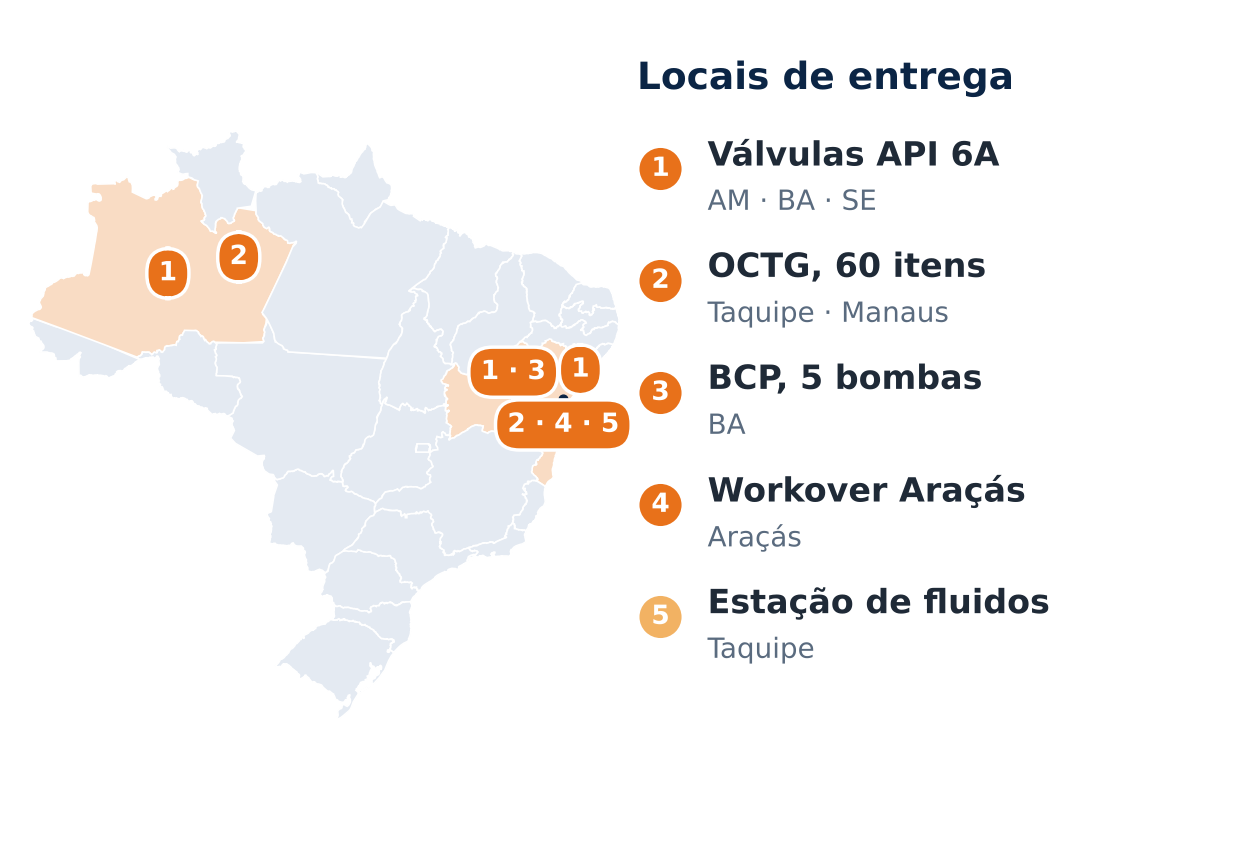
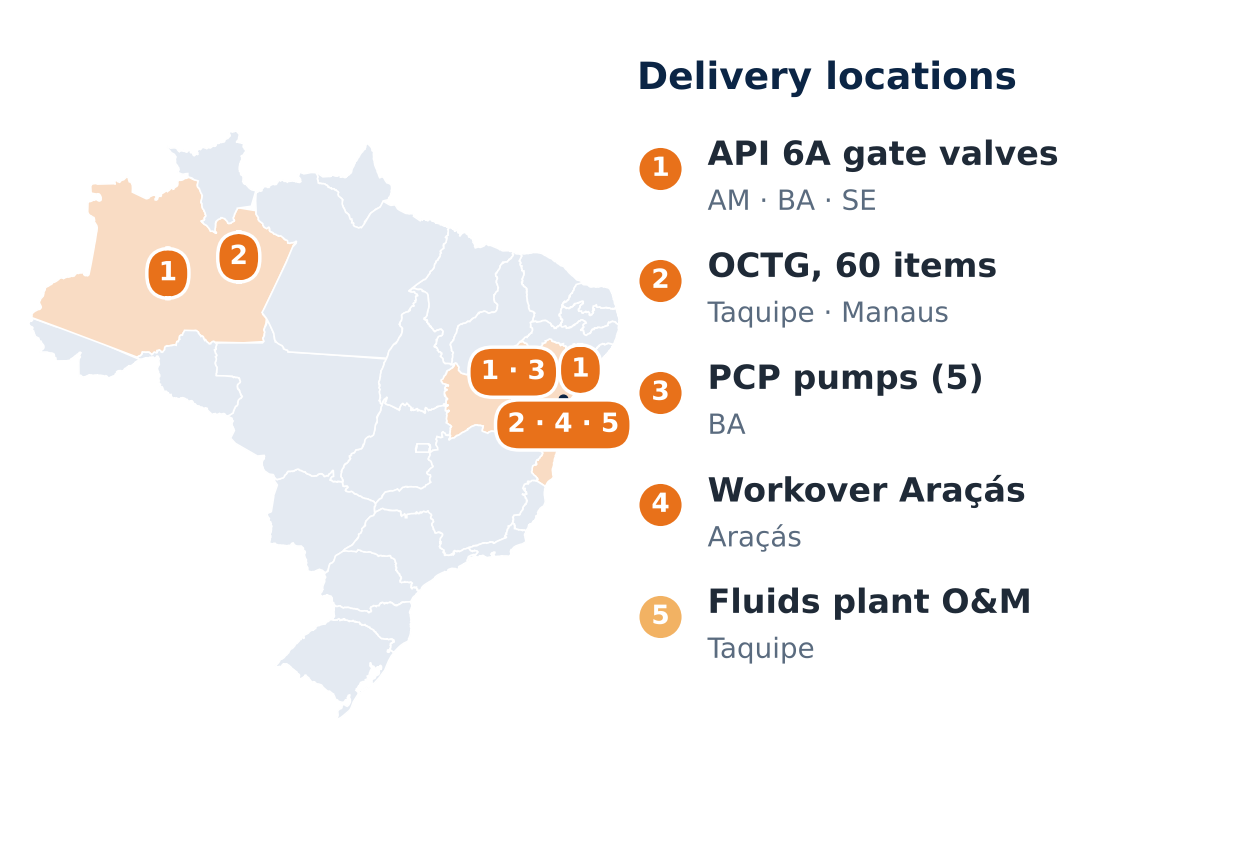
Petronect: mapa em inglês
Claude-Session: https://claude.ai/code/session_01DwFcCsP38r2G4CKmjwVwks

diff --git a/petronect/build_map.py b/petronect/build_map.py
@@ -121,7 +121,7 @@ def main(src, out):
     ax.set_aspect("equal"); ax.axis("off")
 
     lx = fig.add_axes([0.51, 0.0, 0.49, 1.0]); lx.axis("off"); lx.set_xlim(0, 1); lx.set_ylim(0, 1)
-    lx.text(0.0, 0.92, d.get("title", "Locais de entrega"), fontsize=27, fontweight="bold", color=NAVY, family="DejaVu Sans")
+    lx.text(0.0, 0.92, d.get("title", "Delivery locations"), fontsize=27, fontweight="bold", color=NAVY, family="DejaVu Sans")
     n = len(d["opps"])
     step = min(0.14, 0.80 / max(n, 1))
     y = 0.82
